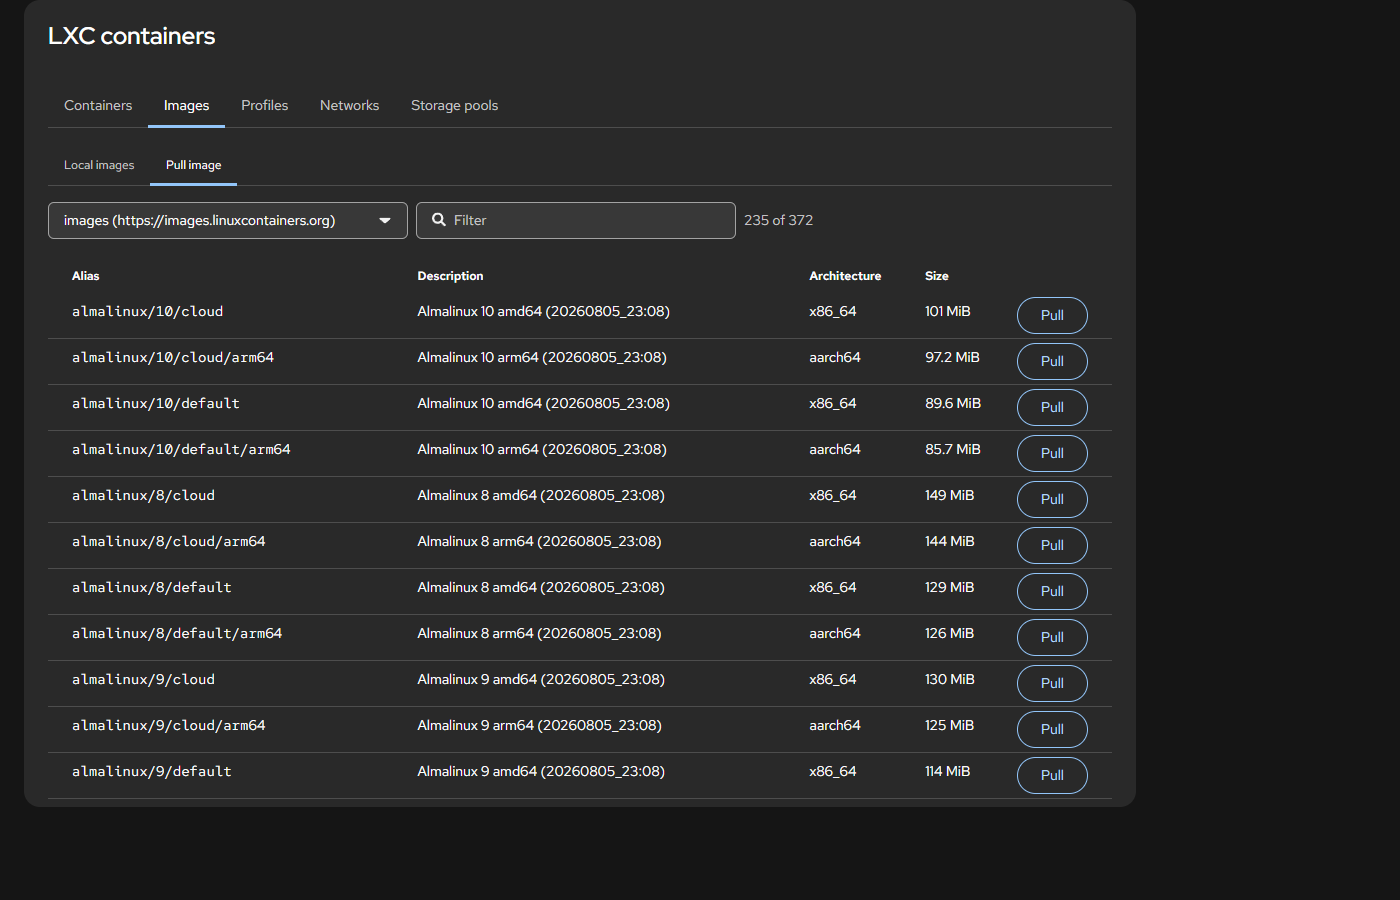
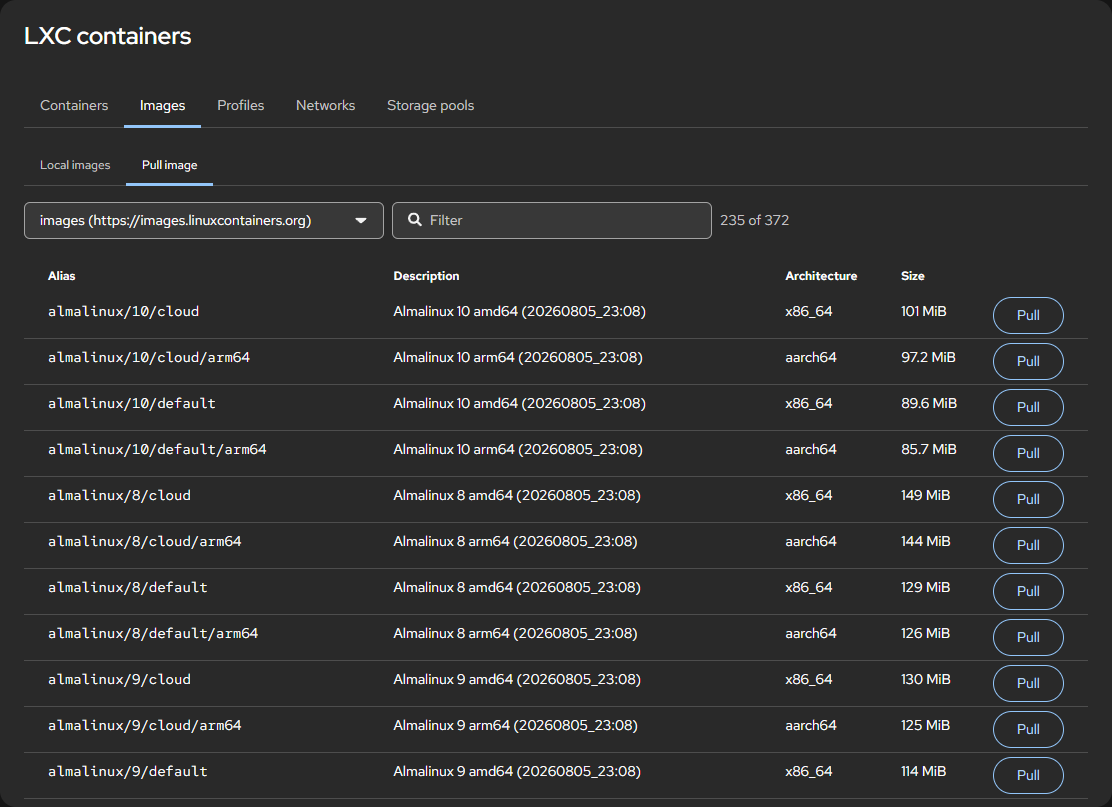
docs: crop the screenshots to the plugin, and show the terminal
Every screenshot carried the browser viewport rather than the plugin: a 1400x900
capture of content 1112 wide, leaving a black band down the right and, on the
container list, 373 pixels of empty page below it. Cropped to the bounding box
of the actual surface, which is 1112 wide and as tall as each page needs.

The terminal is back, with a session in it. It was dropped last time because a
freshly opened shell is a black rectangle with one prompt in it, which showed
nothing; it now runs two commands, so the screenshot shows what the feature
actually does.

Both directions are checked: every image the README references exists, and every
image in docs/ is referenced.

diff --git a/README.md b/README.md
@@ -52,6 +52,13 @@ turns into a silent multi-minute download.
 
 ![Pulling an image](docs/screenshot-images.png)
 
+### A shell in the container
+
+xterm.js over a Cockpit pty, with working resize and 256 colours. The font size is
+remembered, and the sizes offered are the ones whose line height lands on the 4px grid.
+
+![The terminal](docs/screenshot-terminal.png)
+
 ## Supported distributions
 
 Three, and each has a package built and published by CI from the same source tarball:
